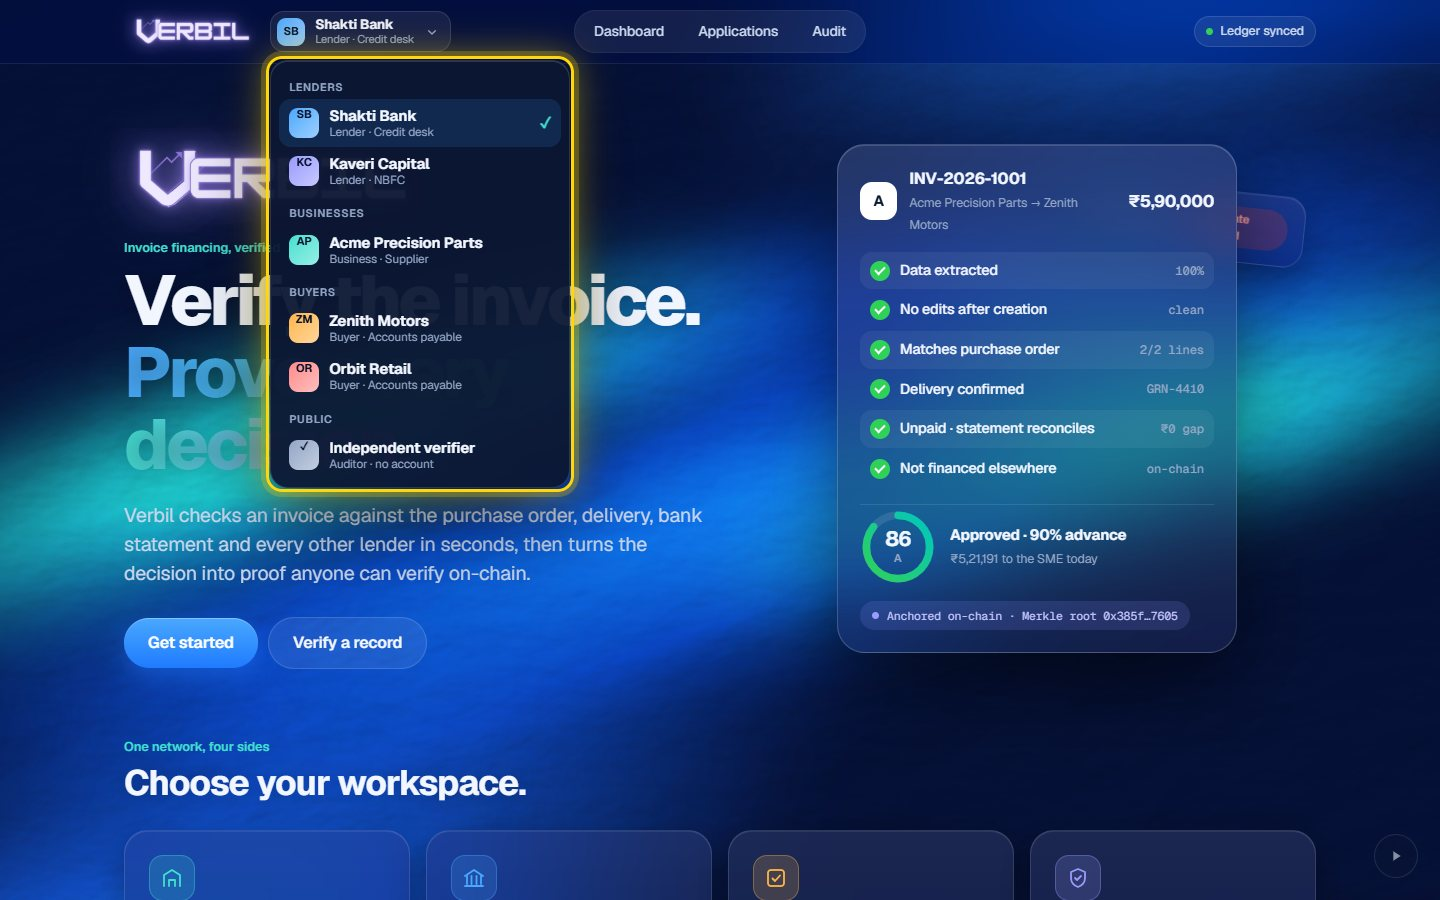
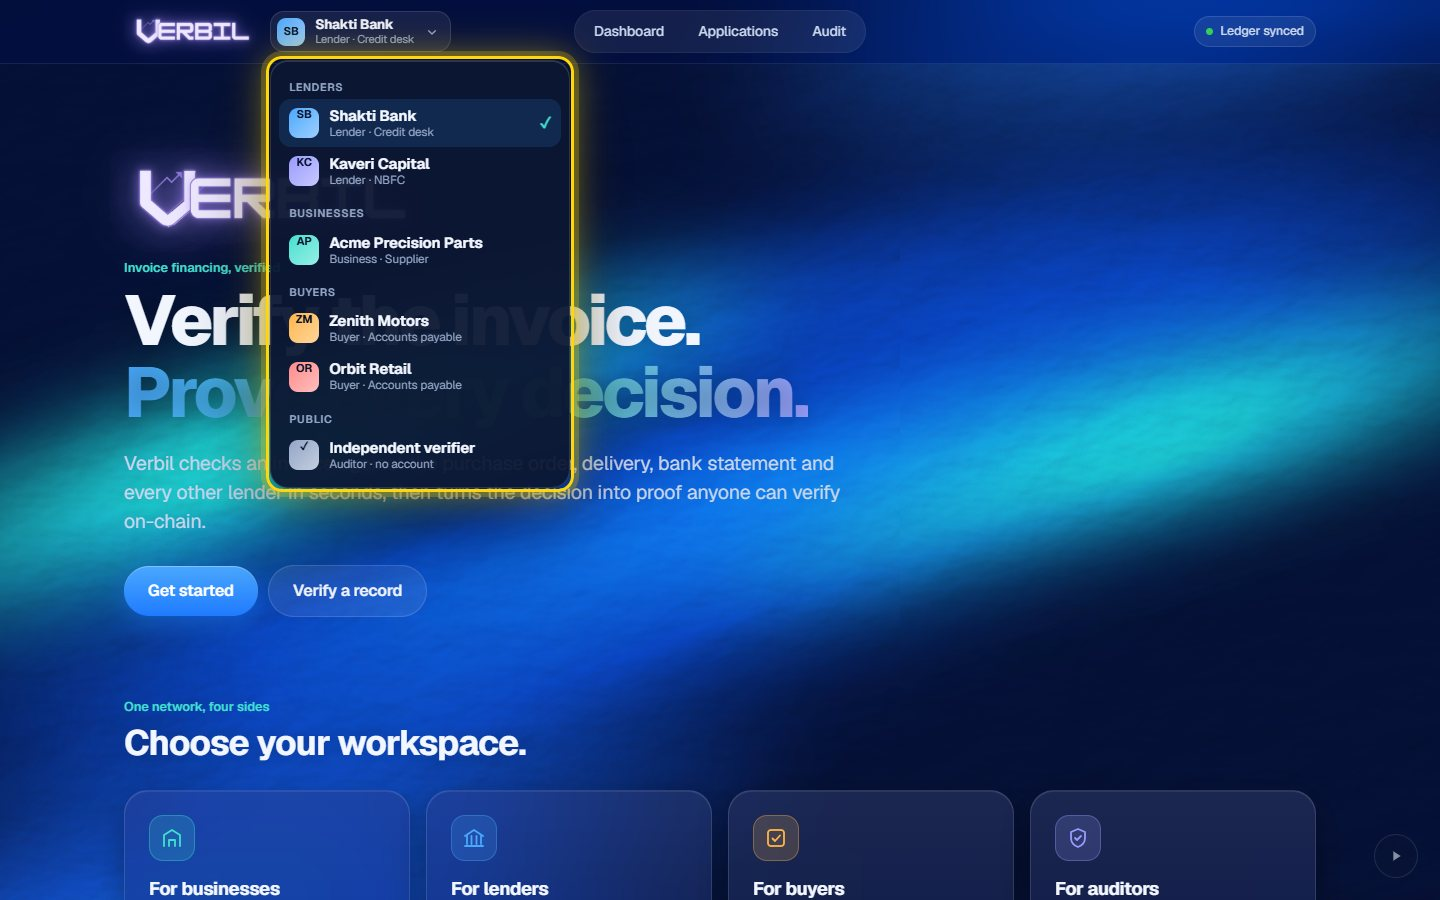
Remove the invoice card from the homepage hero; refresh manual screenshots

Changed region(s): [[0.0625, 0.1556, 0.9062, 0.7467], [0.0625, 0.7778, 0.375, 1.0], [0.5, 0.8711, 0.9375, 1.0]]

diff --git a/frontend/index.html b/frontend/index.html
@@ -8,7 +8,7 @@
 <link rel="preconnect" href="https://fonts.googleapis.com">
 <link rel="preconnect" href="https://fonts.gstatic.com" crossorigin>
 <link rel="stylesheet" href="https://fonts.googleapis.com/css2?family=Geist:wght@400;500;600;700;800&family=Geist+Mono:wght@400;500;600&display=swap">
-<link rel="stylesheet" href="/static/style.css?v=31">
+<link rel="stylesheet" href="/static/style.css?v=32">
 </head>
 <body>
 <header class="top">
@@ -39,29 +39,7 @@
           <button class="btn secondary lg" onclick="setPersona('public')">Verify a record</button>
         </div>
       </div>
-      <div class="landing-visual" aria-hidden="true">
-        <div class="ghost-card"><span class="g-dot"></span><b>INV/2026/1001</b><span class="g-tag">Duplicate blocked</span></div>
-        <div class="doc-card">
-          <div class="doc-head">
-            <span class="doc-logo">A</span>
-            <div><b>INV-2026-1001</b><small>Acme Precision Parts → Zenith Motors</small></div>
-            <span class="doc-amt">₹5,90,000</span>
-          </div>
-          <ul class="doc-checks">
-            <li style="--i:0"><span class="tick"></span>Data extracted<em>100%</em></li>
-            <li style="--i:1"><span class="tick"></span>No edits after creation<em>clean</em></li>
-            <li style="--i:2"><span class="tick"></span>Matches purchase order<em>2/2 lines</em></li>
-            <li style="--i:3"><span class="tick"></span>Delivery confirmed<em>GRN-4410</em></li>
-            <li style="--i:4"><span class="tick"></span>Unpaid · statement reconciles<em>₹0 gap</em></li>
-            <li style="--i:5"><span class="tick"></span>Not financed elsewhere<em>on-chain</em></li>
-          </ul>
-          <div class="doc-foot">
-            <div class="ring" style="width:76px;height:76px"><svg viewBox="0 0 120 120"><defs><linearGradient id="hg" x1="0" y1="0" x2="1" y2="1"><stop offset="0" stop-color="#30d158"/><stop offset="1" stop-color="#00c7be"/></linearGradient></defs><circle cx="60" cy="60" r="50" class="ring-track"/><circle cx="60" cy="60" r="50" class="ring-prog" stroke="url(#hg)" style="--c:314;stroke-dasharray:314;stroke-dashoffset:44" transform="rotate(-90 60 60)"/></svg><div class="ring-label"><b>86</b><span>A</span></div></div>
-            <div><b>Approved · 90% advance</b><small>₹5,21,191 to the SME today</small></div>
-          </div>
-          <div class="anchor-chip"><span class="pulse"></span>Anchored on-chain · Merkle root 0x385f…7605</div>
-        </div>
-      </div>
+
     </div>
 
     <div class="section-head" id="workspaces"><div><span class="eyebrow">One network, four sides</span><h2>Choose your workspace.</h2></div></div>
@@ -208,6 +186,6 @@
 
 <div id="modal" class="modal" hidden><div class="modal-box"><button class="x" id="modal-x" aria-label="Close">×</button><div id="modal-body"></div></div></div>
 <div id="toast" class="toast" hidden></div>
-<script src="/static/app.js?v=31"></script>
+<script src="/static/app.js?v=32"></script>
 </body>
 </html>

diff --git a/frontend/style.css b/frontend/style.css
@@ -498,3 +498,7 @@ details.samples summary{cursor:pointer;font-size:.85rem}
 .wordmark{height:44px;margin:-6px 0;width:auto;display:block;filter:drop-shadow(0 0 10px rgba(167,139,250,.35))}
 @media (max-width:860px){.wordmark{height:34px}}
 .hero-mark{display:block;height:clamp(64px,8vw,104px);width:auto;margin:0 0 6px -14px;filter:drop-shadow(0 0 24px rgba(167,139,250,.35))}
+
+/* hero without the product card */
+.landing{grid-template-columns:1fr;padding:56px 0 24px}
+.landing .lede{max-width:56ch}
